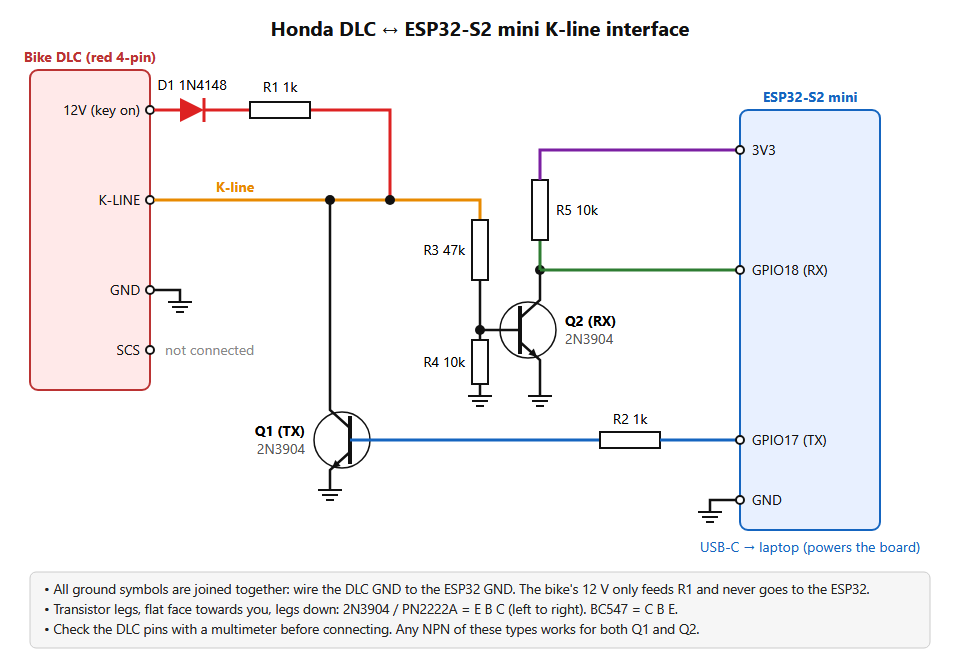
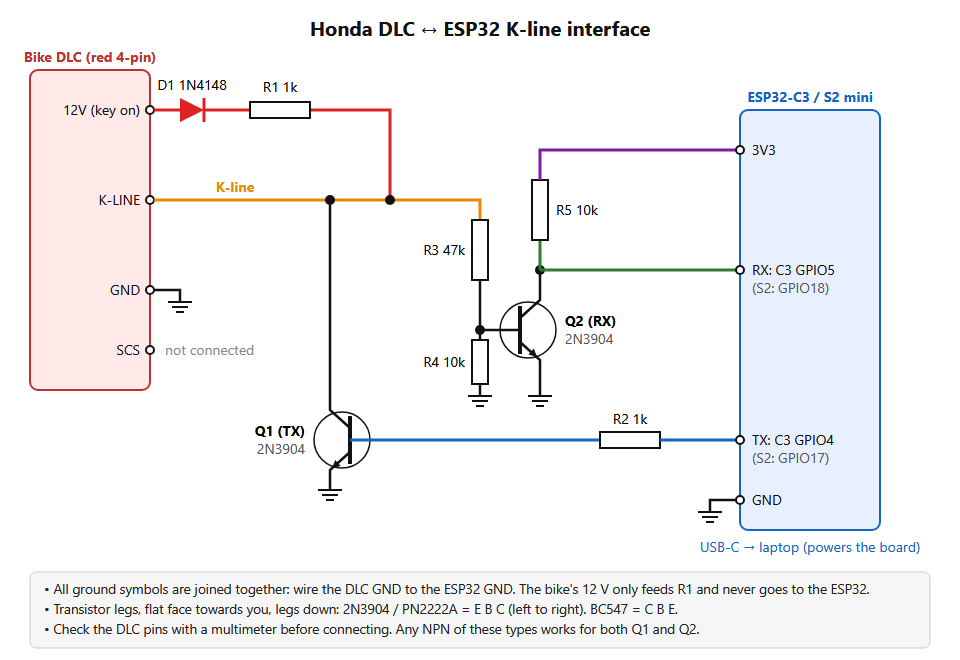
Support ESP32-C3 (TX GPIO4, RX GPIO5); relabel the wiring diagram

diff --git a/README.md b/README.md
@@ -1,17 +1,17 @@
 # Honda DLC Scanner (CBR250R 2011-13, MC41)
 
-Reads live engine data and fault codes from the 4-pin red Honda DLC under the seat. It uses an ESP32-S2 mini as a
+Reads live engine data and fault codes from the 4-pin red Honda DLC under the seat. It uses an ESP32-C3 (or ESP32-S2 mini) as a
 USB-to-K-line bridge and a Python app on the PC.
 
 ```
-Bike DLC ──K-line── 2-transistor interface ── ESP32-S2 mini ──USB── PC (dlc_gui.py / honda_dlc.py)
+Bike DLC ──K-line── 2-transistor interface ── ESP32-C3 ──USB── PC (dlc_gui.py / honda_dlc.py)
 ```
 
 ## Parts
 
 | Part | Notes |
 |---|---|
-| ESP32-S2 mini (LOLIN) | the bridge; powered from the PC's USB |
+| ESP32-C3 board (e.g. C3 SuperMini) or ESP32-S2 mini | the bridge; powered from the PC's USB |
 | 2 × NPN transistor | 2N3904, BC547 or 2N2222 |
 | 1 × 1 kΩ | Q1 base resistor |
 | 1 × 1 kΩ (½ W is fine) | K-line pull-up to 12 V |
@@ -29,17 +29,19 @@ brought down to 3.3 V, and set `KLINE_INVERTED = false` in the firmware.
 
 ![Wiring diagram](docs/wiring.svg)
 
+Pins: **C3: TX = GPIO4, RX = GPIO5**. S2 mini: TX = GPIO17, RX = GPIO18. The firmware picks them from the chip.
+
 Text version:
 
 ```
 DLC 12V ──|>|── 1k ──┬──────────────── DLC K-line
          1N4148      │
                      ├── C  Q1  E ── GND
-   ESP GPIO17 ── 1k ─┘ B (Q1 base)
+   ESP TX ────── 1k ─┘ B (Q1 base)
                      │
                      └── 47k ── B  Q2  E ── GND
                                B ── 10k ── GND
-                               C ──┬── ESP GPIO18
+                               C ──┬── ESP RX
                                    └── 10k ── 3V3
 DLC GND ── ESP GND
 ```
@@ -66,7 +68,7 @@ Both stages invert, and the firmware turns on the UART's own inversion to undo i
 4. Then `dlc_gui.py` → Connect. Blip the throttle and watch which raw bytes change.
 
 ## Firmware
-Arduino IDE → install the "esp32" boards package → board **LOLIN S2 Mini**, *USB CDC On Boot: Enabled*. Open
+Arduino IDE → install the "esp32" boards package → board **ESP32C3 Dev Module** with *USB CDC On Boot: Enabled* (or **LOLIN S2 Mini**, where that is the default). Open
 `firmware/HondaKLine/HondaKLine.ino` and upload. (If the upload doesn't start, hold button 0, tap RST, and release.)
 Check it in the Serial Monitor at 115200: typing `P` should answer `OK HONDA-KLINE 1`.
 
